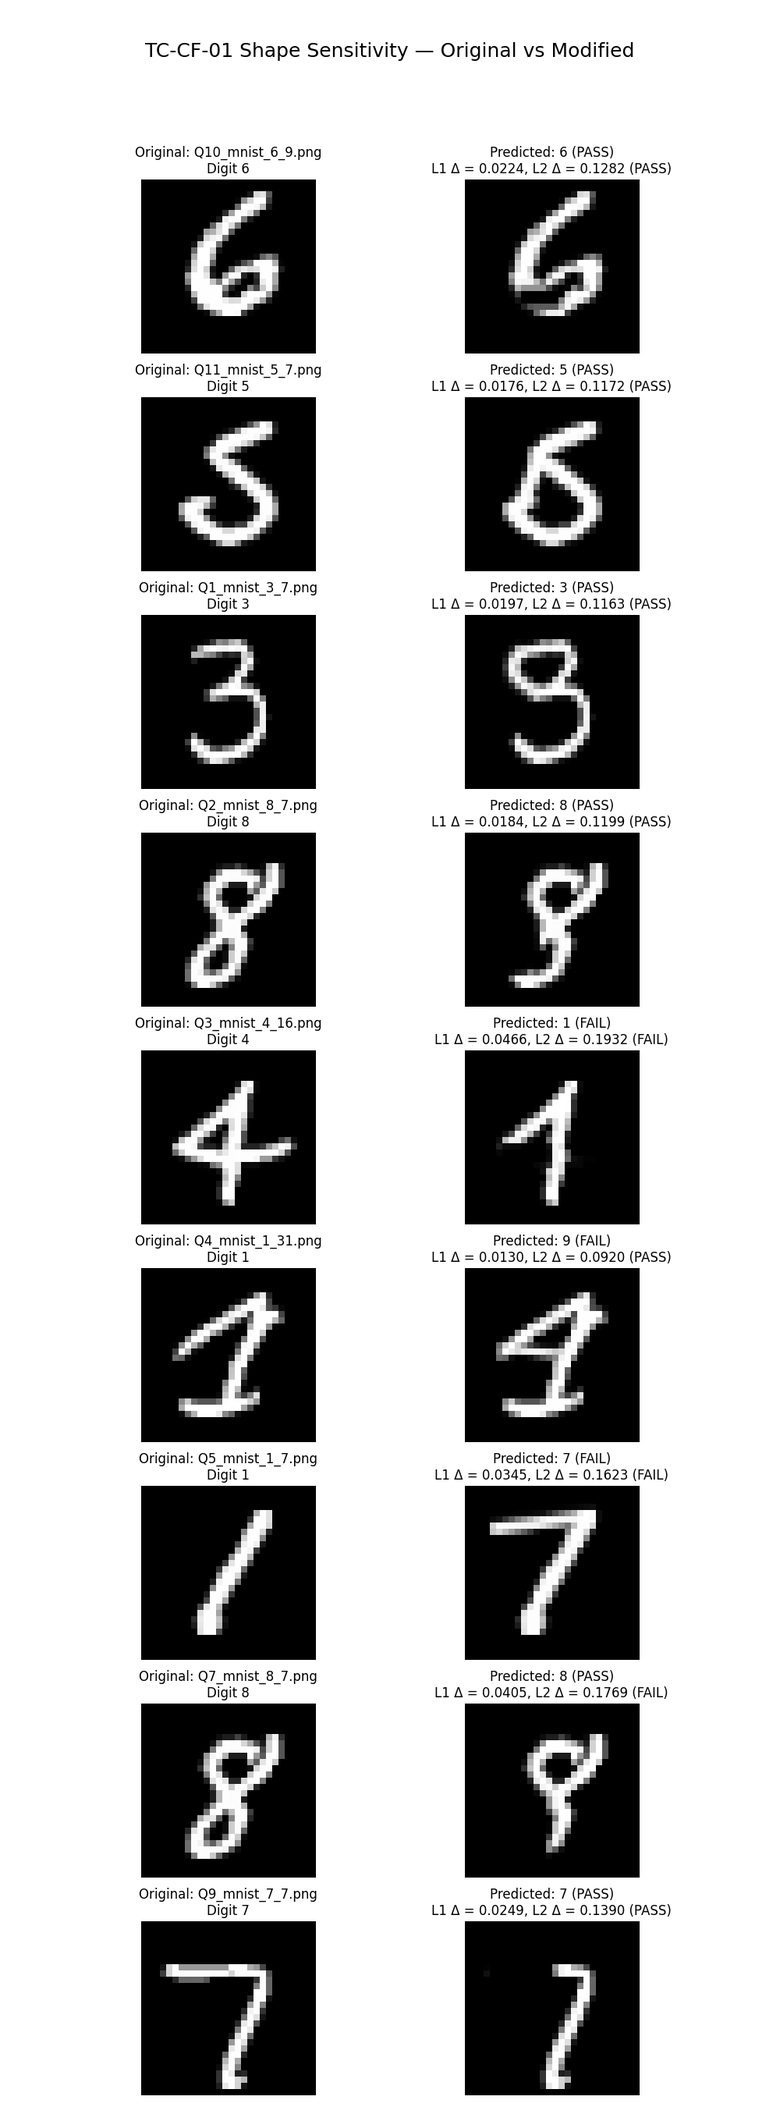
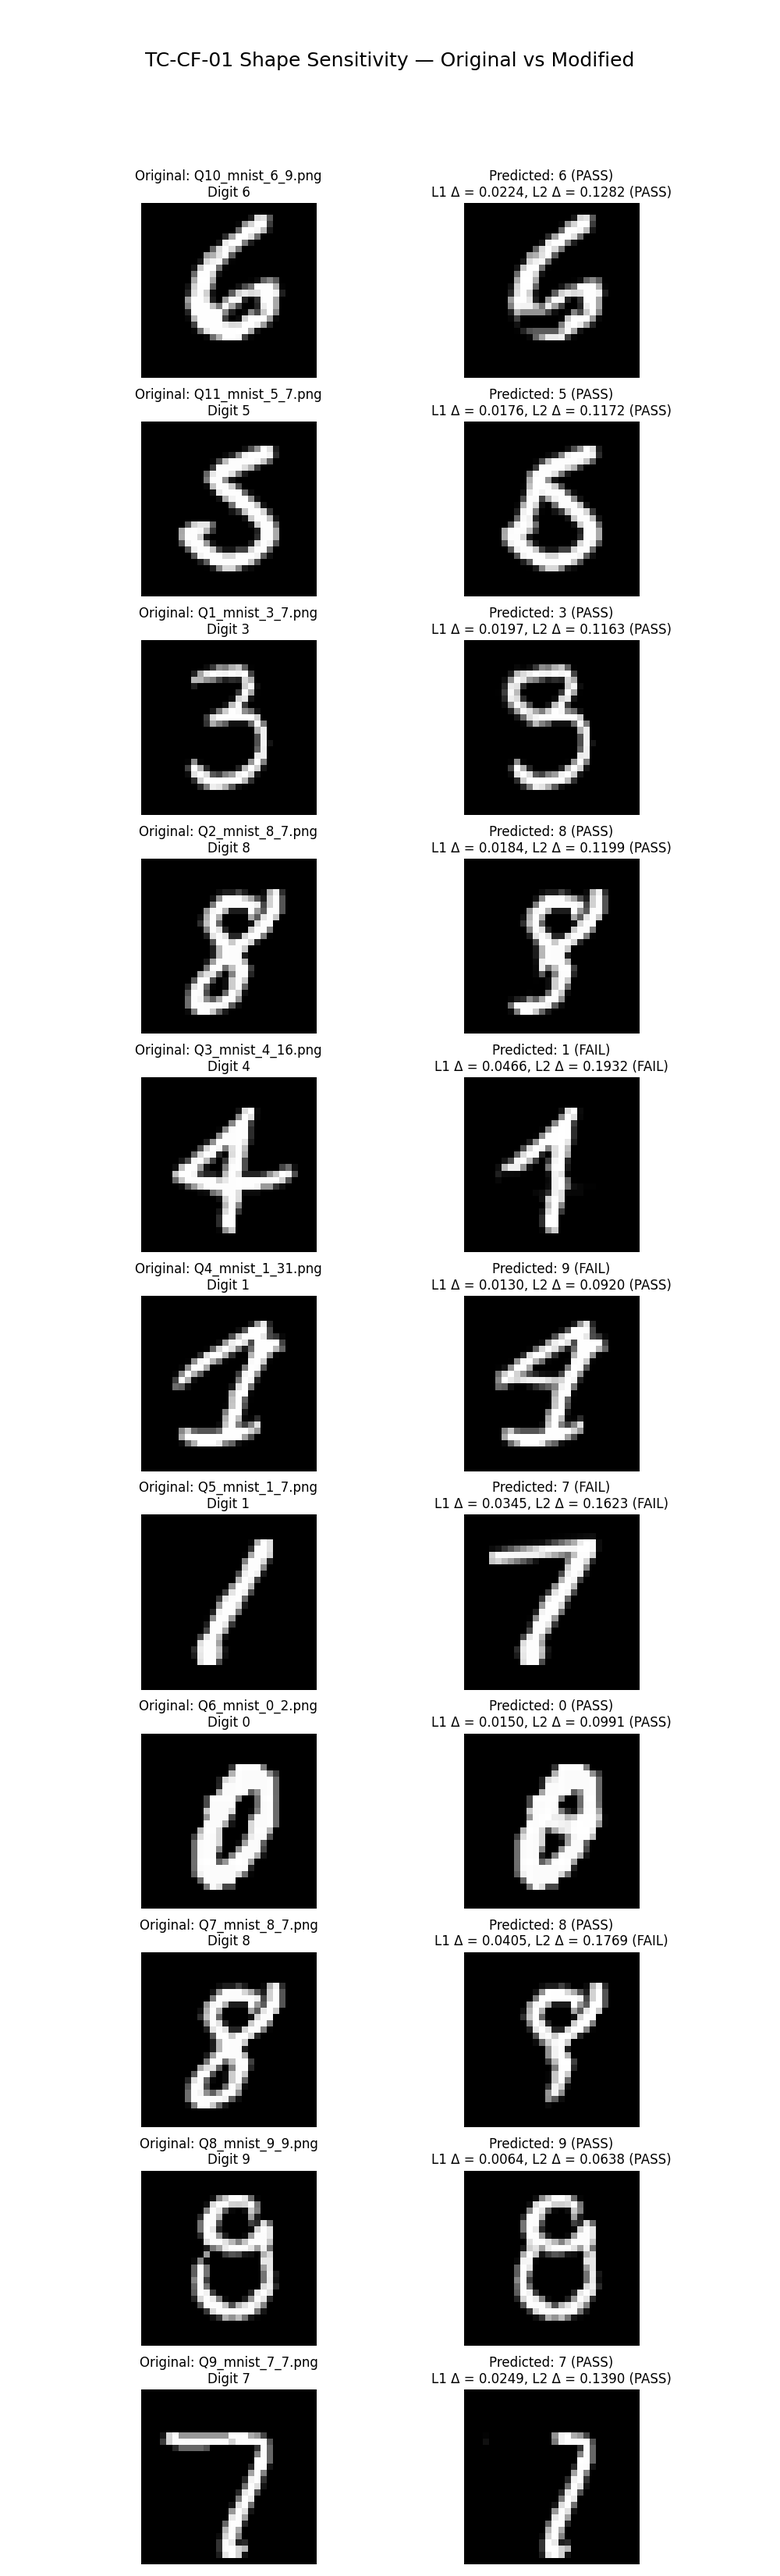
Updated uat to use original poorly written 9, and then reused that 9 for the cf tests. Added 0 to cf-01 tes

Changed region(s): [[0.558, 0.0622, 0.868, 0.9956], [0.155, 0.0622, 0.434, 0.9956]]

diff --git a/Handwritten Digit Classification/test_files/utils.py b/Handwritten Digit Classification/test_files/utils.py
@@ -331,21 +331,12 @@ def show_tensor_image(img_tensor, title="Image"):
 
 
 def get_tc_cf_01_test_images():
-    j = 0
-    num_list = [3, 8, 4, 1, 1, 0, 8, 9, 2, 3, 7, 7, 1, 6, 5]
-    for n in num_list:
-        if n == 4:
-            i = 16
-        elif n == 1 and j == 3:
-            i = 31
-        elif n == 6:
-            i = 9
-        else:
-            random.seed(0)
-            i = random.randint(1, 10)
-
+    num_list = [3, 8, 4, 1, 1, 0, 8, 9, 7, 6, 5]
+    ind_list = [7, 7, 16, 31, 7, 2, 7, 9, 7, 9, 7]
+    for j in range(0, len(num_list)+1):
+        n = num_list[j]
+        i = ind_list[j]
         img_array, label = get_mnist_image(target_digit=n, target_index=i, index=None, train_data_set=True, show=True)
-        j += 1
 
 
 if __name__ == "__main__":
